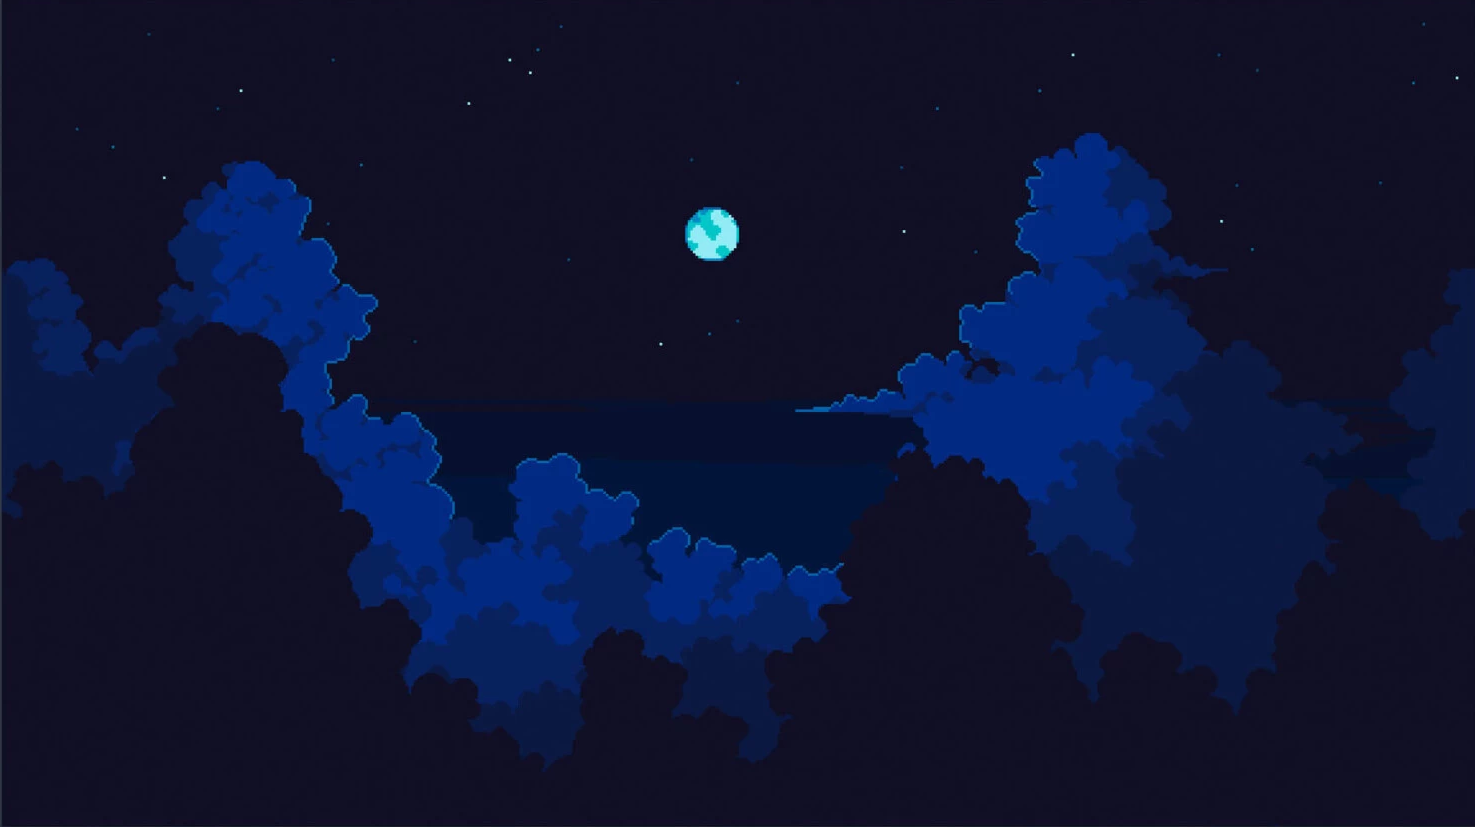
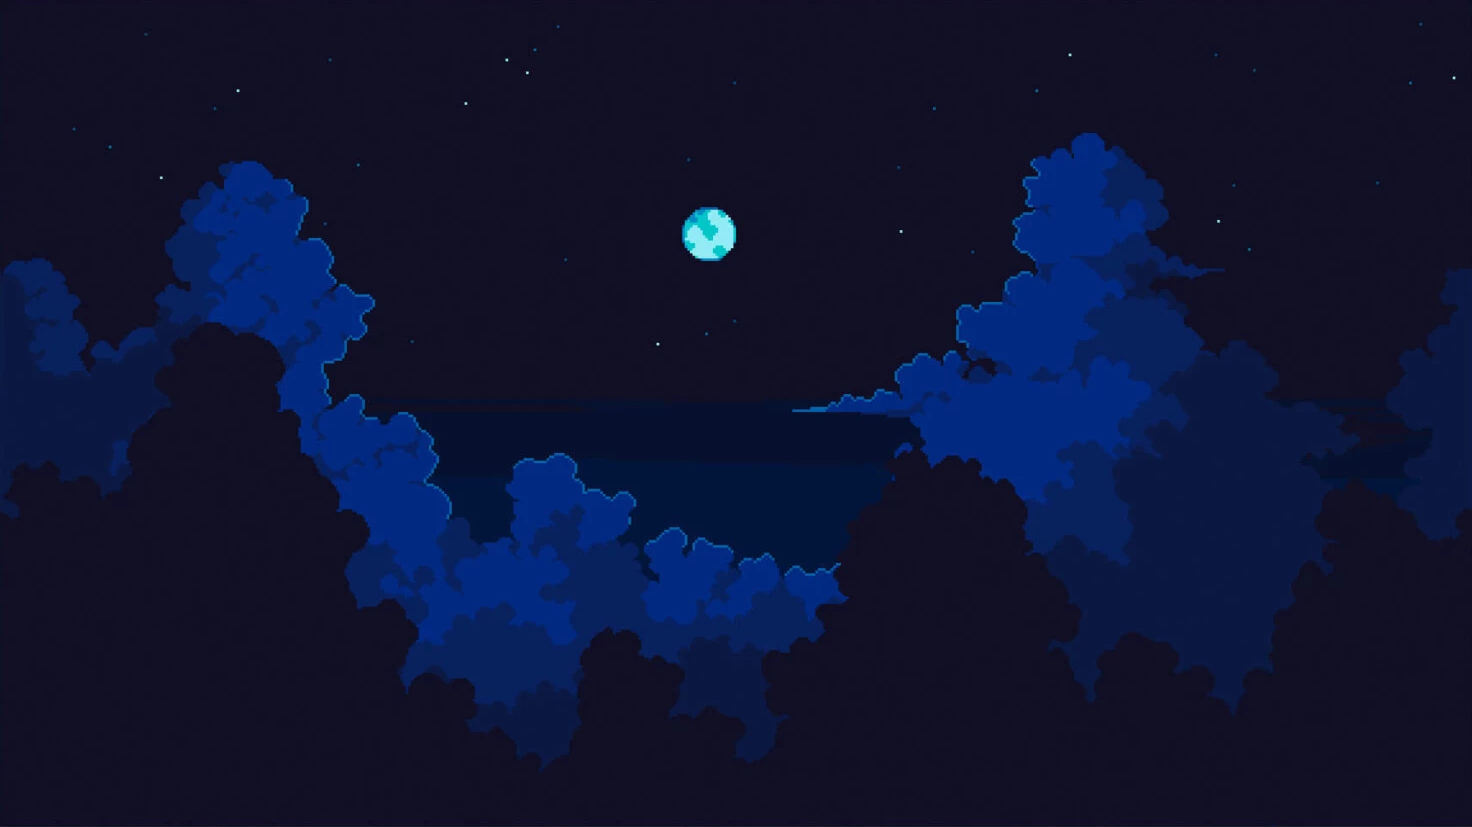
feat: background in loop

diff --git a/src/flappybird/background.cpp b/src/flappybird/background.cpp
@@ -4,7 +4,7 @@
 #include <vector>
 
 Background::Background(sf::RenderWindow& window)
-    : sprite(firstTexture)
+    : sprite1(firstTexture), sprite2(firstTexture)
 {
     // Store all background image paths
     std::vector<std::string> paths = {
@@ -18,36 +18,71 @@ Background::Background(sf::RenderWindow& window)
     bgTextures.resize(paths.size());
 
     for (std::size_t i = 0; i < paths.size(); i++) {
-        bgTextures[i].loadFromFile(paths[i]);
+        if (!bgTextures[i].loadFromFile(paths[i])) {
+            loaded = false;
+            return;
+        }
     }
+    loaded = true;
 
     // Pick first random background
-    bgIndex = std::rand() % bgTextures.size();
+    bgIndex = std::rand() % (int)bgTextures.size();
 
     // true resets sprite size to the texture size
-    sprite.setTexture(bgTextures[bgIndex], true);
+    sprite1.setTexture(bgTextures[bgIndex], true);
+    sprite2.setTexture(bgTextures[bgIndex], true);
 
     applyScale(window);
 }
 
+void Background::update(float dt, sf::RenderWindow& window) {
+    // Move both background sprites to the left
+    sprite1.move({ -speed * dt, 0.f });
+    sprite2.move({ -speed * dt, 0.f });
+
+    float width = sprite1.getGlobalBounds().size.x;
+
+    // If first sprite leaves screen, place it after second sprite
+    if (sprite1.getPosition().x + width <= 0.f) {
+        sprite1.setPosition({ sprite2.getPosition().x + width - 4.f, 0.f });
+    }
+
+    // If second sprite leaves screen, place it after first sprite
+    if (sprite2.getPosition().x + width <= 0.f) {
+        sprite2.setPosition({ sprite1.getPosition().x + width - 4.f, 0.f });
+    }
+}
+   
 void Background::pickRandom(sf::RenderWindow& window) {
     // Pick another random background
-    bgIndex = std::rand() % bgTextures.size();
+    bgIndex = std::rand() % (int)bgTextures.size();
 
     // true resets sprite size to the new texture size
-    sprite.setTexture(bgTextures[bgIndex], true);
+    sprite1.setTexture(bgTextures[bgIndex], true);
+    sprite2.setTexture(bgTextures[bgIndex], true);
 
     applyScale(window);
 }
 
 void Background::applyScale(sf::RenderWindow& window) {
-    // Scale background to fit full window
+    // Fit background to window size
     float scaleX = (float)window.getSize().x / bgTextures[bgIndex].getSize().x;
     float scaleY = (float)window.getSize().y / bgTextures[bgIndex].getSize().y;
 
-    sprite.setScale({ scaleX, scaleY });
+    sprite1.setScale({ scaleX, scaleY });
+    sprite2.setScale({ scaleX, scaleY });
+
+    float width = sprite1.getGlobalBounds().size.x;
+
+    sprite1.setPosition({ 0.f, 0.f });
+    sprite2.setPosition({ width - 4.f, 0.f });
 }
 
 void Background::draw(sf::RenderWindow& window) {
-    window.draw(sprite);
+    window.draw(sprite1);
+    window.draw(sprite2);
+}
+
+bool Background::isLoaded() const {
+    return loaded;
 }

diff --git a/src/flappybird/background.h b/src/flappybird/background.h
@@ -7,14 +7,22 @@ class Background {
 public:
     sf::Texture firstTexture;
     std::vector<sf::Texture> bgTextures;
-    sf::Sprite sprite;
+
+    sf::Sprite sprite1;
+    sf::Sprite sprite2;
+
     int bgIndex = 0;
+    bool loaded = false;
 
     Background(sf::RenderWindow& window);
 
+    void update(float dt, sf::RenderWindow& window);
     void pickRandom(sf::RenderWindow& window);
     void draw(sf::RenderWindow& window);
+    bool isLoaded() const;
 
 private:
+    float speed = 100.f;
+
     void applyScale(sf::RenderWindow& window);
 };

diff --git a/src/flappybird/flappybird.cpp b/src/flappybird/flappybird.cpp
@@ -46,6 +46,7 @@ void runFlappyBird(sf::RenderWindow& window) {
         // Update
         bird.update(dt, window);
         pipes.update(dt, window, cellW, cellH);
+        background.update(dt, window);
 
         // Collision
         if (pipes.collides(bird.getBounds())) {
